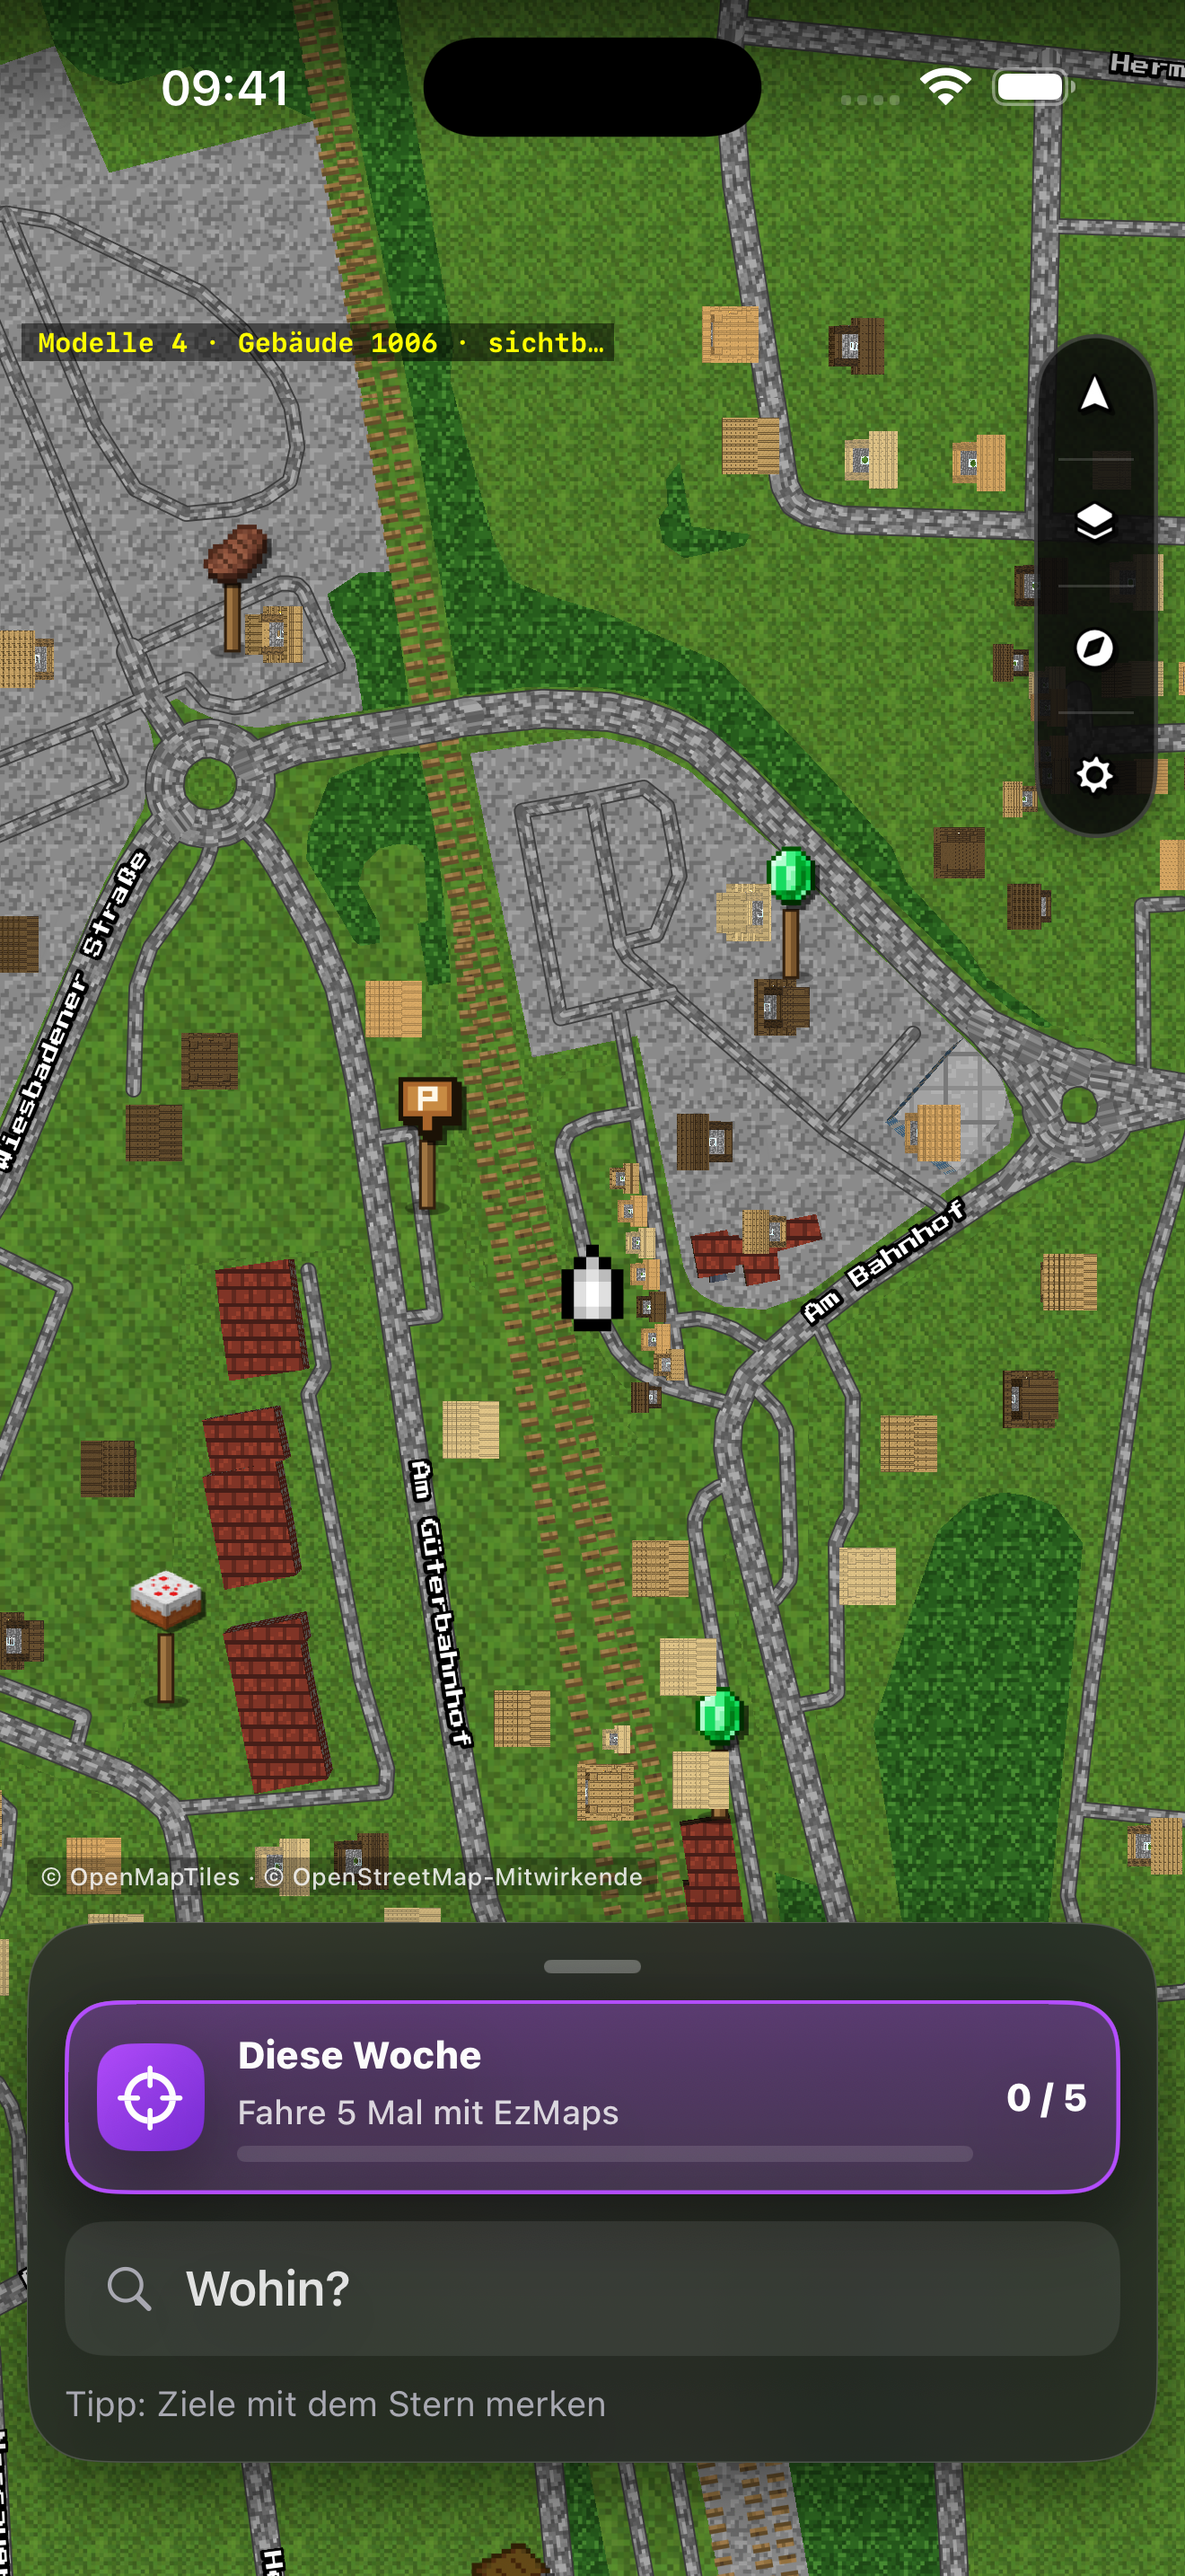
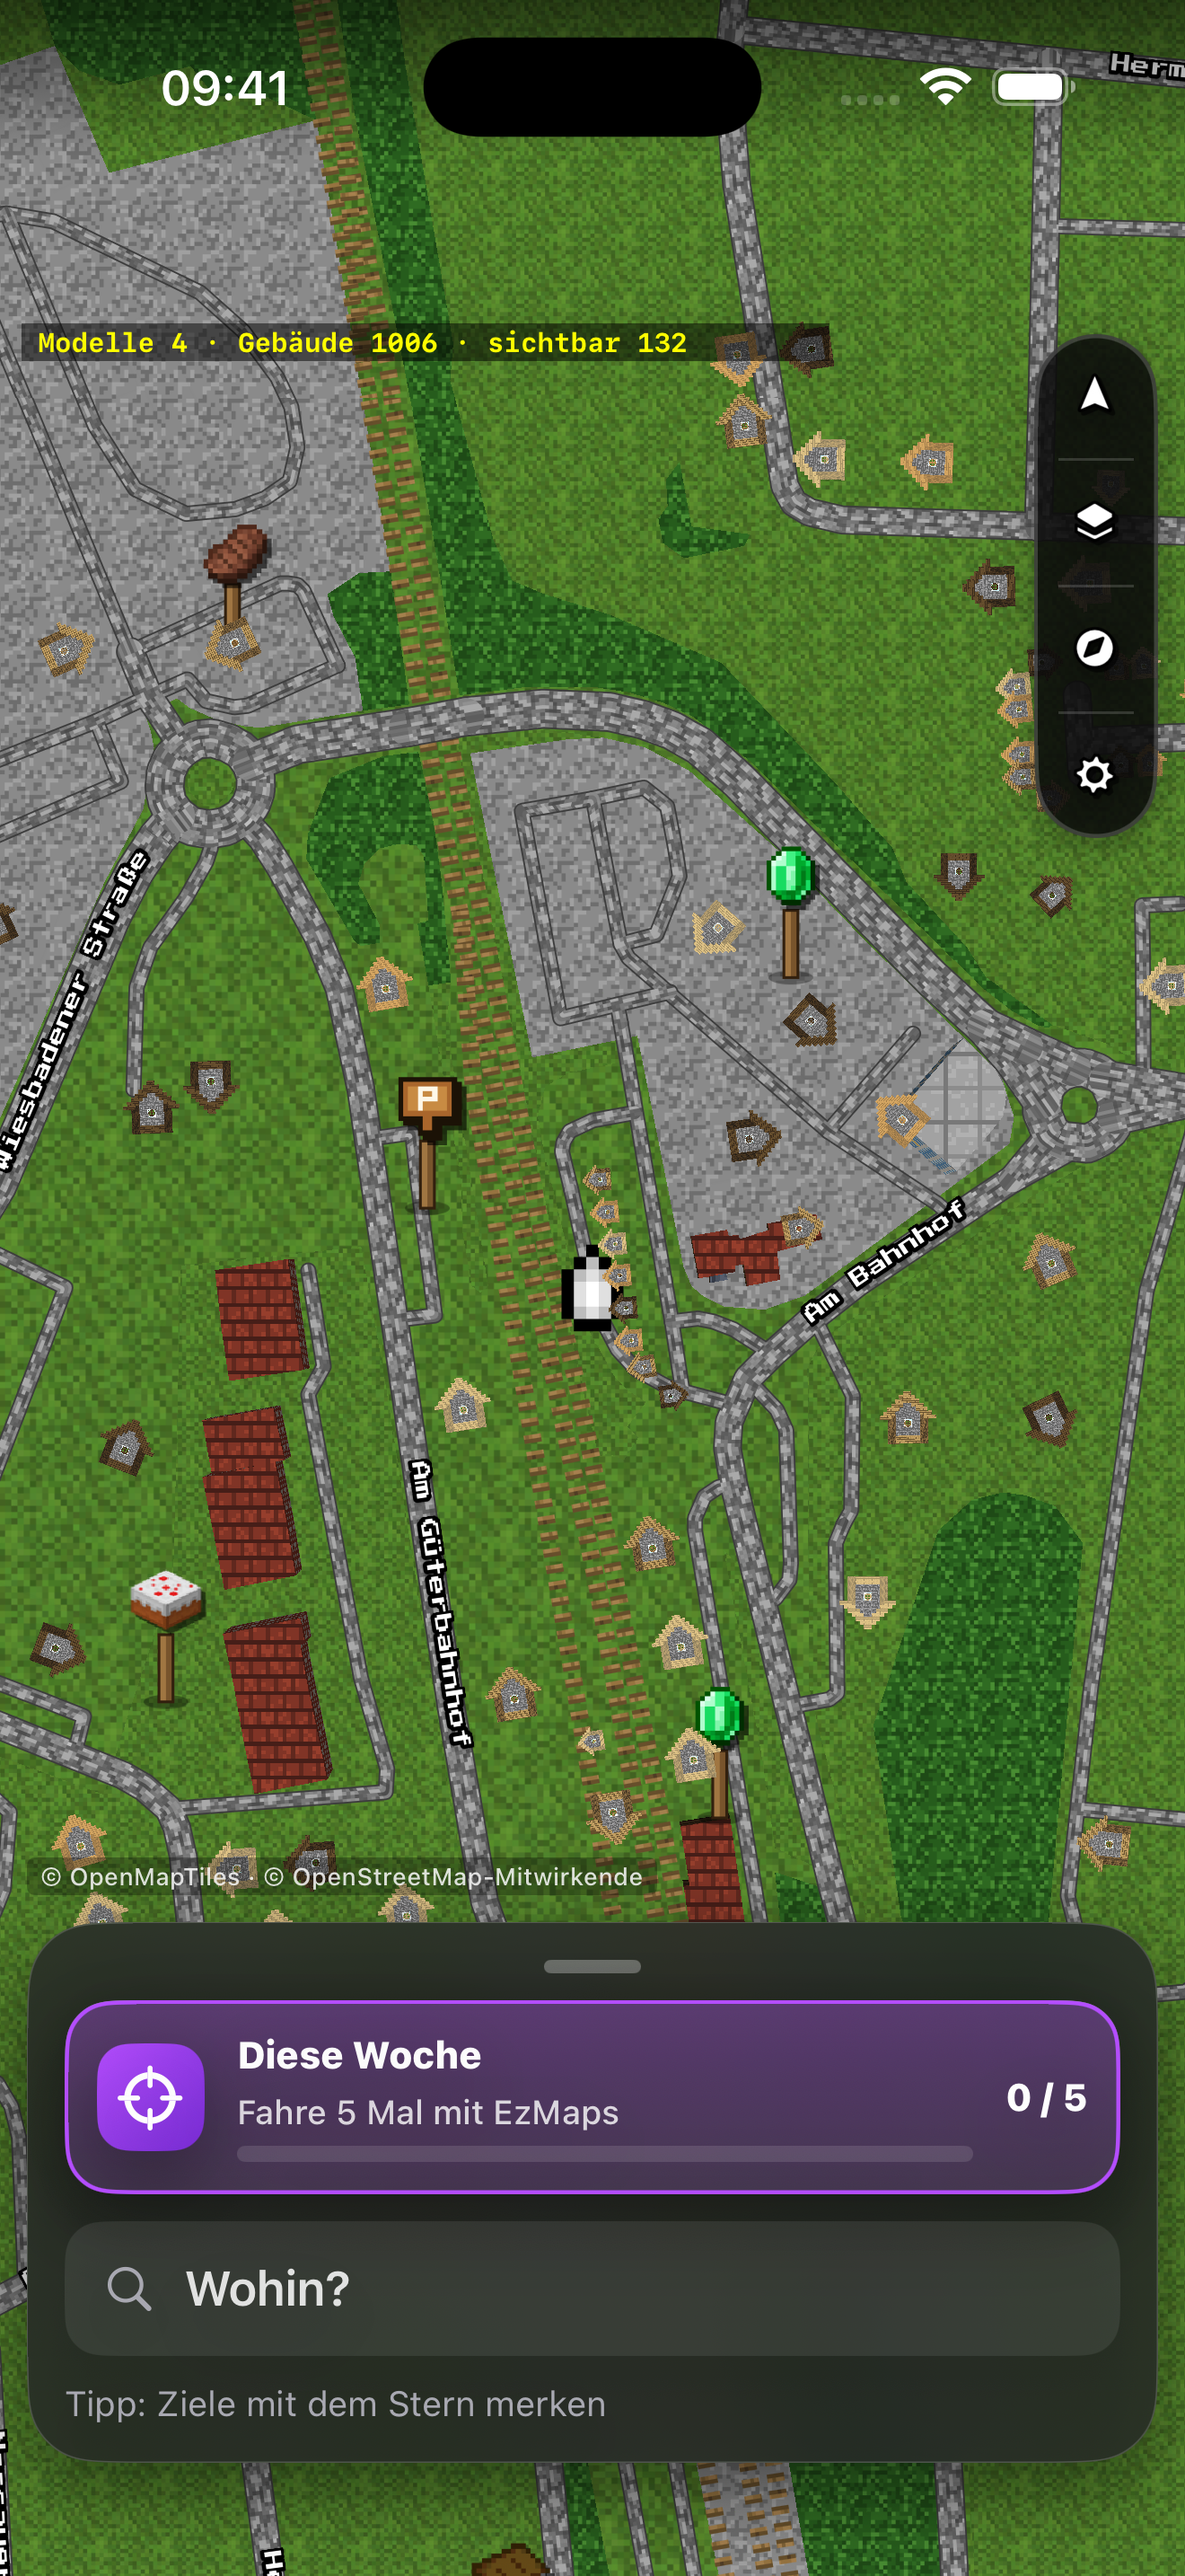
GM-093: Neigung Vorzeichen

diff --git a/App/VillageLayer.swift b/App/VillageLayer.swift
@@ -140,7 +140,7 @@ final class VillageLayer {
             house.node.scale = SCNVector3(s, s, s)
             house.node.position = SCNVector3(Float(p.x - w / 2), Float(h / 2 - p.y), Float(p.y))
             // GM-093: Die Codex-.scn steht schon mit „oben“ zur Kamera (Z-up) – nur nach Kartenneigung kippen, um Z nach Gebäudekante drehen
-            house.node.eulerAngles = SCNVector3(-pitch, 0, -Float((house.angle - dir) * .pi / 180))
+            house.node.eulerAngles = SCNVector3(pitch, 0, -Float((house.angle - dir) * .pi / 180))
         }
     }
 }
